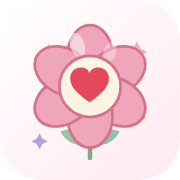
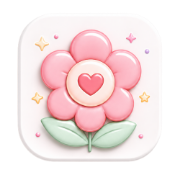
ترتيب الصور المضافة: أيقونة حقيقية، صورة تعريفية، وستيكرات جديدة
- استخدام 5.png (المرفوع) كأيقونة رسمية للتطبيق: icon-192, icon-512,
  apple-touch-icon
- استخدام صورة "يومي/Yomi" التعريفية كصورة مقدمة في أول شاشة ترحيب
  بالتطبيق (public/hero-yomi.png)
- إضافة 4 ستيكرات جديدة من نفس مجموعة الصور (دفتر، كوب، تقويم،
  نجمة) واستبدال ستيكر الزهرة المرسوم يدويًا بنسخة حقيقية من
  المجموعة الجديدة
- حذف الملفات السبعة غير المستخدمة والملف الفارغ من جذر المستودع
  بعد نقل ما يلزم منها إلى public/

Claude-Session: https://claude.ai/code/session_01CyBy5YtUK1Hm4ag5WkZE5x

diff --git a/src/onboarding/Onboarding.tsx b/src/onboarding/Onboarding.tsx
@@ -37,10 +37,12 @@ export default function Onboarding() {
     <div className="app-shell items-center justify-center px-6 py-10 fade-in">
       {step === "welcome" && (
         <div className="flex flex-col items-center text-center gap-5 max-w-sm">
-          <div className="relative w-32 h-32 flex items-center justify-center">
-            <div className="absolute inset-0 rounded-full pattern-dots" />
-            <Mascot size={112} />
-          </div>
+          <img
+            src="/hero-yomi.png"
+            alt="يومي"
+            className="w-56 h-56 rounded-[32px]"
+            style={{ boxShadow: "4px 4px 0 var(--shadow-soft)" }}
+          />
           <h1 className="text-2xl font-extrabold">أهلاً بكِ</h1>
           <p className="text-[15px] leading-8" style={{ color: "var(--ink-soft)" }}>
             هذا المنظم هدية لكِ

diff --git a/src/data/constants.ts b/src/data/constants.ts
@@ -18,7 +18,11 @@ export const DEFAULT_STICKER = "/stickers/tulip.svg";
  */
 export const STICKERS: string[] = [
   "/stickers/tulip.svg",
-  "/stickers/blossom-heart.svg",
+  "/stickers/blossom.png",
+  "/stickers/notebook.png",
+  "/stickers/mug.png",
+  "/stickers/calendar.png",
+  "/stickers/star-heart.png",
   "/stickers/sunflower.svg",
   "/stickers/heart.svg",
   "/stickers/star.svg",
